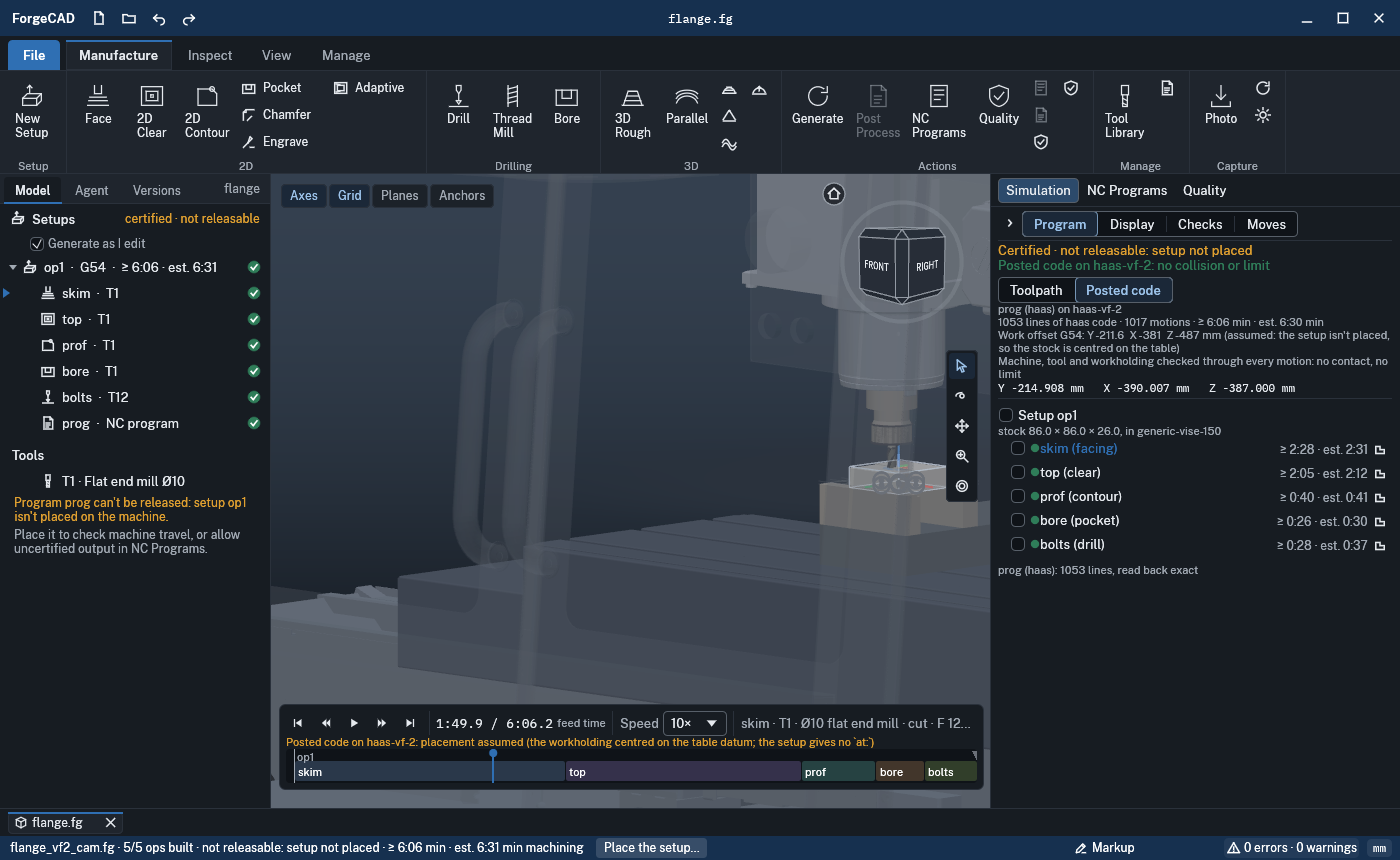
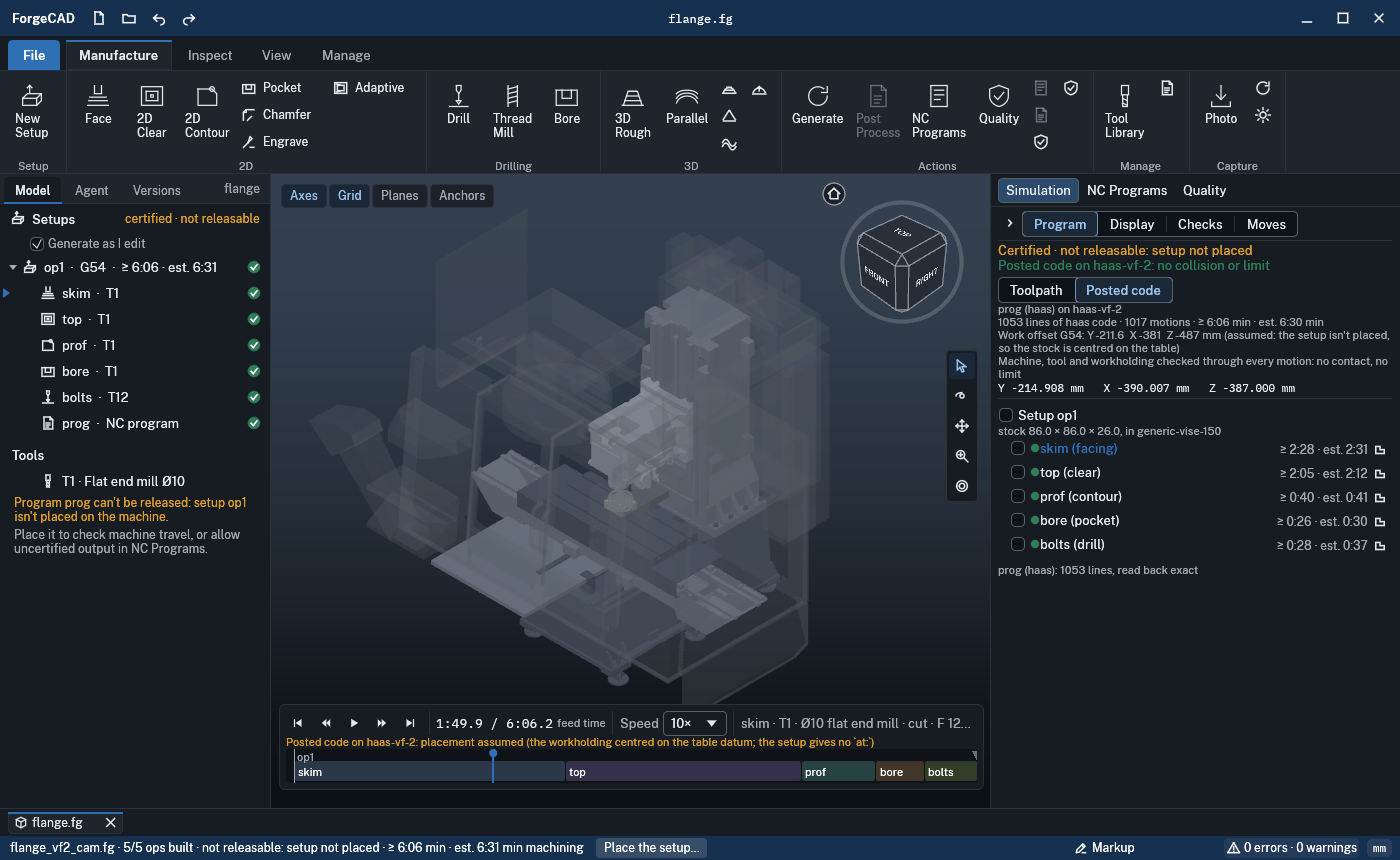
camsim: what's drawn against what's checked (David), shown and counted
The collision inventory found the machine check takes each body's record primitives while
the simulation draws its `.fg` part or a maker's model. Until CAM-MACHINE's collision meshes
make them one source (the real model, drawn and checked):
- the machine's models come from `models::drawn_dir`: the user's own, else forgecad's
  shipped makers' models (Git LFS) where downloaded (camsim::machine::models_dir); where
  they are LFS pointers, under the timeline: "Model not downloaded: <machine> is drawn from
  its record's parts (`forgecad machine model fetch <machine>` fetches it)"
- Display: "Checked geometry" (`checked=1`): what the collision check takes, see-through
  amber over the drawing: every checked machine body's primitives
  (collide::machine_bodies) and the workholding's bodies as the run checked them
- camsim::machine::sources: per body, the drawn source (Model, Part, Prims) and the
  checked one
- test what_is_drawn_against_what_is_checked: every built-in machine's every body, the
  gaps listed and counted, a ratchet that may only fall (1170 of 1170 today: every body);
  nothing checked is left undrawn
- shot: research/cam/ui/sim/native-machine-05-vf2-checked-1400x860.png

Claude-Session: https://claude.ai/code/session_01WJtawyn7zd9gKZdPzHRCgQ

Changed region(s): [[0.1843, 0.1814, 0.7064, 0.9372], [0.3686, 0.2721, 0.3993, 0.3326]]

diff --git a/interface/forge-render/src/camsim/machine.rs b/interface/forge-render/src/camsim/machine.rs
@@ -408,12 +408,45 @@ impl MachineView {
     }
 
     /// The machine's bodies at time t, in the part's frame (shaded); `hit` names drawn red. A
-    /// body the user attached a model to (forge_machine_builder::models: a maker's model, read
-    /// from their own library, never shipped) is drawn as that model, moving with its link; a
+    /// body with a model (forge_machine_builder::models: the user's own, else forgecad's shipped
+    /// makers' models, `models_dir`) is drawn as that model, moving with its link; a
     /// whole-machine model on the base. An enclosure is drawn see-through into `glass`, so it never
     /// hides the cut. The checks keep the record's envelopes either way.
     pub fn draw(&self, t: f64, hit: &[String], out: &mut Vec<WorldVert>) {
         self.draw_with(t, hit, out, &mut Vec::new());
+    }
+
+    /// What the collision check takes at time t, see-through amber over the drawing, in the
+    /// part's frame: each checked machine body's primitives (forge_machine::collide::
+    /// machine_bodies) and the workholding's bodies as the run checked them (`run.work`, in
+    /// their links' frames as the machine's are).
+    pub fn draw_checked(&self, t: f64, glass: &mut Vec<WorldVert>) {
+        let def = &self.run.def;
+        let q = self.q_at(t);
+        let pose = kin::pose(def, &q);
+        let w = self.to_part(&q);
+        let c = crate::viewcube::rgb(0xE8B13A);
+        let mut put = |prims: &[forge_machine::def::Prim], link: Option<usize>| {
+            let l = link.map_or(Rigid::ID, |j| pose[j].clone());
+            let m = w.then(&l);
+            let tr = crate::machine_mesh::prims_tris(prims);
+            for tri in &tr.tri {
+                for &k in tri {
+                    let mut col = super::draw::shade_pub(c, f3(m.dir(tr.nrm[k as usize])));
+                    col[3] = 0.28;
+                    glass.push(WorldVert {
+                        at: f3(m.apply(tr.pos[k as usize])),
+                        colour: col,
+                    });
+                }
+            }
+        };
+        for b in forge_machine::collide::machine_bodies(def) {
+            put(&b.prims, b.link);
+        }
+        for b in &self.run.work {
+            put(&b.prims, b.link);
+        }
     }
 
     /// `draw`, the see-through bodies (an enclosure) into `glass`.
@@ -486,8 +519,95 @@ impl MachineView {
     }
 }
 
-/// The models the user attached to a machine (their own library: `forgecad machine model
-/// attach` / `split`), each placed in the base frame at home, with the body it is drawn as (None:
+/// The folder a machine's models are drawn from: the user's own (their library: `forgecad
+/// machine model attach`), else forgecad's shipped ones (`models::drawn_dir`: the makers'
+/// published models, Git LFS), where downloaded.
+pub fn models_dir(machine: &str) -> Option<std::path::PathBuf> {
+    forge_machine_builder::models::drawn_dir(forge_machine_builder::catalog::user_dir().as_deref(), machine)
+}
+
+/// The command that fetches forgecad's shipped models of a machine, where it ships some that
+/// are not downloaded (a clone's LFS pointers) and the user has none of their own: the machine
+/// is drawn from its record's parts meanwhile.
+pub fn models_missing(machine: &str) -> Option<String> {
+    if models_dir(machine).is_some() {
+        return None;
+    }
+    forge_machine_builder::models::not_downloaded(machine).map(|(_, cmd)| cmd)
+}
+
+/// Where a machine body's geometry comes from: a model drawn in its place (its file), its
+/// record's `.fg` part, its record's primitives (the collision envelope), or nothing.
+#[derive(Clone, Debug, PartialEq, Eq)]
+pub enum Source {
+    Model(String),
+    Part(String),
+    Prims,
+    None,
+}
+
+/// A body of a machine: what the simulation draws it as, and what the collision check
+/// (forge_machine::collide::machine_bodies) takes for it. The two are to be one (David: what's
+/// drawn is what's checked); where they are not, the test of every built-in machine names it.
+#[derive(Clone, Debug, PartialEq, Eq)]
+pub struct BodySources {
+    pub body: String,
+    pub drawn: Source,
+    pub checked: Source,
+}
+
+/// Every body of `def`: its drawn source and its checked source.
+pub fn sources(def: &forge_machine::MachineDef) -> Vec<BodySources> {
+    let models = attached(&def.name);
+    let files: Vec<(Option<String>, String)> = models_dir(&def.name)
+        .and_then(|d| forge_machine_builder::models::load_in(&d).ok())
+        .unwrap_or_default()
+        .into_iter()
+        .map(|m| (m.body, m.file))
+        .collect();
+    let checked: Vec<String> = forge_machine::collide::machine_bodies(def)
+        .into_iter()
+        .map(|b| b.name)
+        .collect();
+    def.bodies
+        .iter()
+        .map(|b| {
+            let drawn = if models
+                .iter()
+                .any(|(body, _)| body.as_deref() == Some(b.name.as_str()))
+            {
+                let f = files
+                    .iter()
+                    .find(|(body, _)| body.as_deref() == Some(b.name.as_str()))
+                    .map_or(String::new(), |x| x.1.clone());
+                Source::Model(f)
+            } else {
+                match &b.part {
+                    Some(p)
+                        if forge_machine_builder::make::builtin_part(p)
+                            .is_some_and(|src| crate::machine_mesh::part_tris(src, None).is_ok()) =>
+                    {
+                        Source::Part(p.clone())
+                    }
+                    _ if b.prims.is_empty() => Source::None,
+                    _ => Source::Prims,
+                }
+            };
+            BodySources {
+                body: b.name.clone(),
+                drawn,
+                checked: if checked.contains(&b.name) {
+                    Source::Prims
+                } else {
+                    Source::None
+                },
+            }
+        })
+        .collect()
+}
+
+/// The models a machine is drawn with (`models_dir`: the user's own library, `forgecad machine
+/// model attach` / `split`, else forgecad's shipped ones), each placed in the base frame at home, with the body it is drawn as (None:
 /// the whole machine). Read once per change of the machine's models.toml; none where it has none
 /// or a file does not read (the record's bodies are drawn then).
 fn attached(machine: &str) -> std::sync::Arc<Vec<(Option<String>, std::sync::Arc<Tris>)>> {
@@ -502,7 +622,7 @@ fn attached(machine: &str) -> std::sync::Arc<Vec<(Option<String>, std::sync::Arc
         >,
     >;
     static KEPT: OnceLock<Kept> = OnceLock::new();
-    let Some(dir) = forge_machine_builder::models::dir(machine) else {
+    let Some(dir) = models_dir(machine) else {
         return Arc::new(vec![]);
     };
     let index = dir.join(forge_machine_builder::models::INDEX);

diff --git a/interface/forge-render/tests/camsim.rs b/interface/forge-render/tests/camsim.rs
@@ -1054,3 +1054,55 @@ fn the_vise_sits_on_the_vf2s_table() {
     let b = bare.machines[0].as_ref().unwrap();
     assert!(b.run.holding.is_none() && b.run.seat.is_none());
 }
+
+/// What's drawn is what's checked (David): for every body of every built-in machine, the
+/// source the simulation draws it from against the one the collision check takes
+/// (camsim::machine::sources). Today the check takes each body's record primitives while the
+/// drawing takes its `.fg` part or a maker's model: every such body is a gap, counted here and
+/// listed (CAM-MACHINE's collision meshes close them: the real model, drawn and checked, one
+/// source). The count may only fall; a body drawn that the check leaves out entirely is a gap
+/// too. The workholding is drawn from the boxes the run checks (the vise test).
+#[test]
+fn what_is_drawn_against_what_is_checked() {
+    use forge_render::camsim::machine::{Source, sources};
+    let mut gaps = vec![];
+    let mut bodies = 0;
+    for def in forge_machine::library::builtin() {
+        for b in sources(&def) {
+            bodies += 1;
+            let same = matches!(
+                (&b.drawn, &b.checked),
+                (Source::Prims, Source::Prims) | (Source::None, Source::None)
+            );
+            if !same {
+                gaps.push(format!(
+                    "{} {}: drawn {:?}, checked {:?}",
+                    def.name, b.body, b.drawn, b.checked
+                ));
+            }
+        }
+    }
+    eprintln!(
+        "{} of {bodies} bodies drawn from other than what is checked:",
+        gaps.len()
+    );
+    for g in &gaps {
+        eprintln!("  {g}");
+    }
+    // every body the check takes is drawn (nothing checked unseen)
+    for def in forge_machine::library::builtin() {
+        for b in sources(&def) {
+            assert!(
+                b.checked == Source::None || b.drawn != Source::None,
+                "{} {}: checked but not drawn",
+                def.name,
+                b.body
+            );
+        }
+    }
+    // the ratchet: lower it as gaps close, never raise it (1170: every body of every built-in
+    // machine, 2026-11-25: each drawn from its `.fg` part, or a maker's model, while the check
+    // takes its record's primitives)
+    const GAPS_AT_MOST: usize = 1170;
+    assert!(gaps.len() <= GAPS_AT_MOST, "{} gaps", gaps.len());
+}

diff --git a/interface/forge-render/src/gui_camsim_panel.rs b/interface/forge-render/src/gui_camsim_panel.rs
@@ -73,6 +73,10 @@ pub struct CamSimUi {
     pub fixture: bool,
     /// The machine's bodies, when a machine run plays.
     pub machine: bool,
+    /// Over them, the geometry the collision check takes for each body (its record's
+    /// primitives) and the workholding as checked, see-through: where it is not what is drawn,
+    /// it shows.
+    pub checked: bool,
     /// The toolpath coloured by a measured value per move (the workspace's colour-by).
     pub values: Option<crate::camsim::draw::Values>,
     pub follow: bool,
@@ -150,6 +154,7 @@ impl CamSimUi {
             tool: true,
             fixture: true,
             machine: true,
+            checked: false,
             values: None,
             follow: false,
             shop_eye: true,
@@ -688,6 +693,12 @@ pub fn machine_notes(st: &CamSimUi) -> Vec<String> {
             } else {
                 "the stock"
             }
+        ));
+    }
+    if let Some(cmd) = crate::camsim::machine::models_missing(&mv.run.def.name) {
+        out.push(format!(
+            "Model not downloaded: {} is drawn from its record's parts (`{cmd}` fetches it)",
+            mv.run.def.name
         ));
     }
     if mv.run.holding.is_none() {
@@ -1491,6 +1502,8 @@ fn display(ui: &mut Ui, st: &mut CamSimUi, t: &crate::shell::theme::Theme) {
     ui.checkbox(&mut st.fixture, "Workholding");
     if st.sim.machine().is_some() {
         ui.checkbox(&mut st.machine, "Machine");
+        ui.checkbox(&mut st.checked, "Checked geometry")
+            .on_hover_text("Shows, see-through, what the collision check takes for each body of the machine and the workholding. Where it differs from what is drawn, the drawing is not what is checked.");
     }
 }
 

diff --git a/interface/forge-render/src/gui_camsim.rs b/interface/forge-render/src/gui_camsim.rs
@@ -49,6 +49,7 @@ impl Gui {
                 ui.part = old.part;
                 ui.tool = old.tool;
                 ui.fixture = old.fixture;
+                ui.checked = old.checked;
                 ui.follow = old.follow;
                 ui.shop_eye = old.shop_eye;
                 ui.detail = old.detail;
@@ -450,6 +451,9 @@ pub fn geometry(
             .flat_map(|c| [c.a.clone(), c.b.clone()])
             .collect();
         mv.draw_with(st.t, &hit, &mut solid, world);
+        if st.checked {
+            mv.draw_checked(st.t, world);
+        }
     }
     // the toolpath
     let show = PathShow {
@@ -573,6 +577,8 @@ impl Gui {
                     st.jump(f * total);
                 }
                 "machine" => st.machine = on()?,
+                // what the collision check takes for each body, see-through
+                "checked" => st.checked = on()?,
                 // the simulation's own framing: the stock and the tool's tip now (STANDARD §2)
                 "fit" if v == "sim" => refit = true,
                 "fit" => {

diff --git a/interface/forge-render/tests/camsim_ui.rs b/interface/forge-render/tests/camsim_ui.rs
@@ -507,6 +507,10 @@ fn the_flange_on_a_haas_vf2() {
         v.mark_dirty();
     }
     shot(&mut h, "native-machine-04-vf2-vise-1400x860");
+    // the geometry the collision check takes, see-through over what is drawn
+    h.gui.camsim_command("checked=1;machine=1;fit=machine").unwrap();
+    shot(&mut h, "native-machine-05-vf2-checked-1400x860");
+    h.gui.camsim_command("checked=0").unwrap();
     // the operator's view: the eye stays put in the machine, so as the table carries the part
     // the target moves in the part's frame by just the table's travel
     let target = |h: &Headless| h.gui.view.as_ref().unwrap().nav.camera.target;
